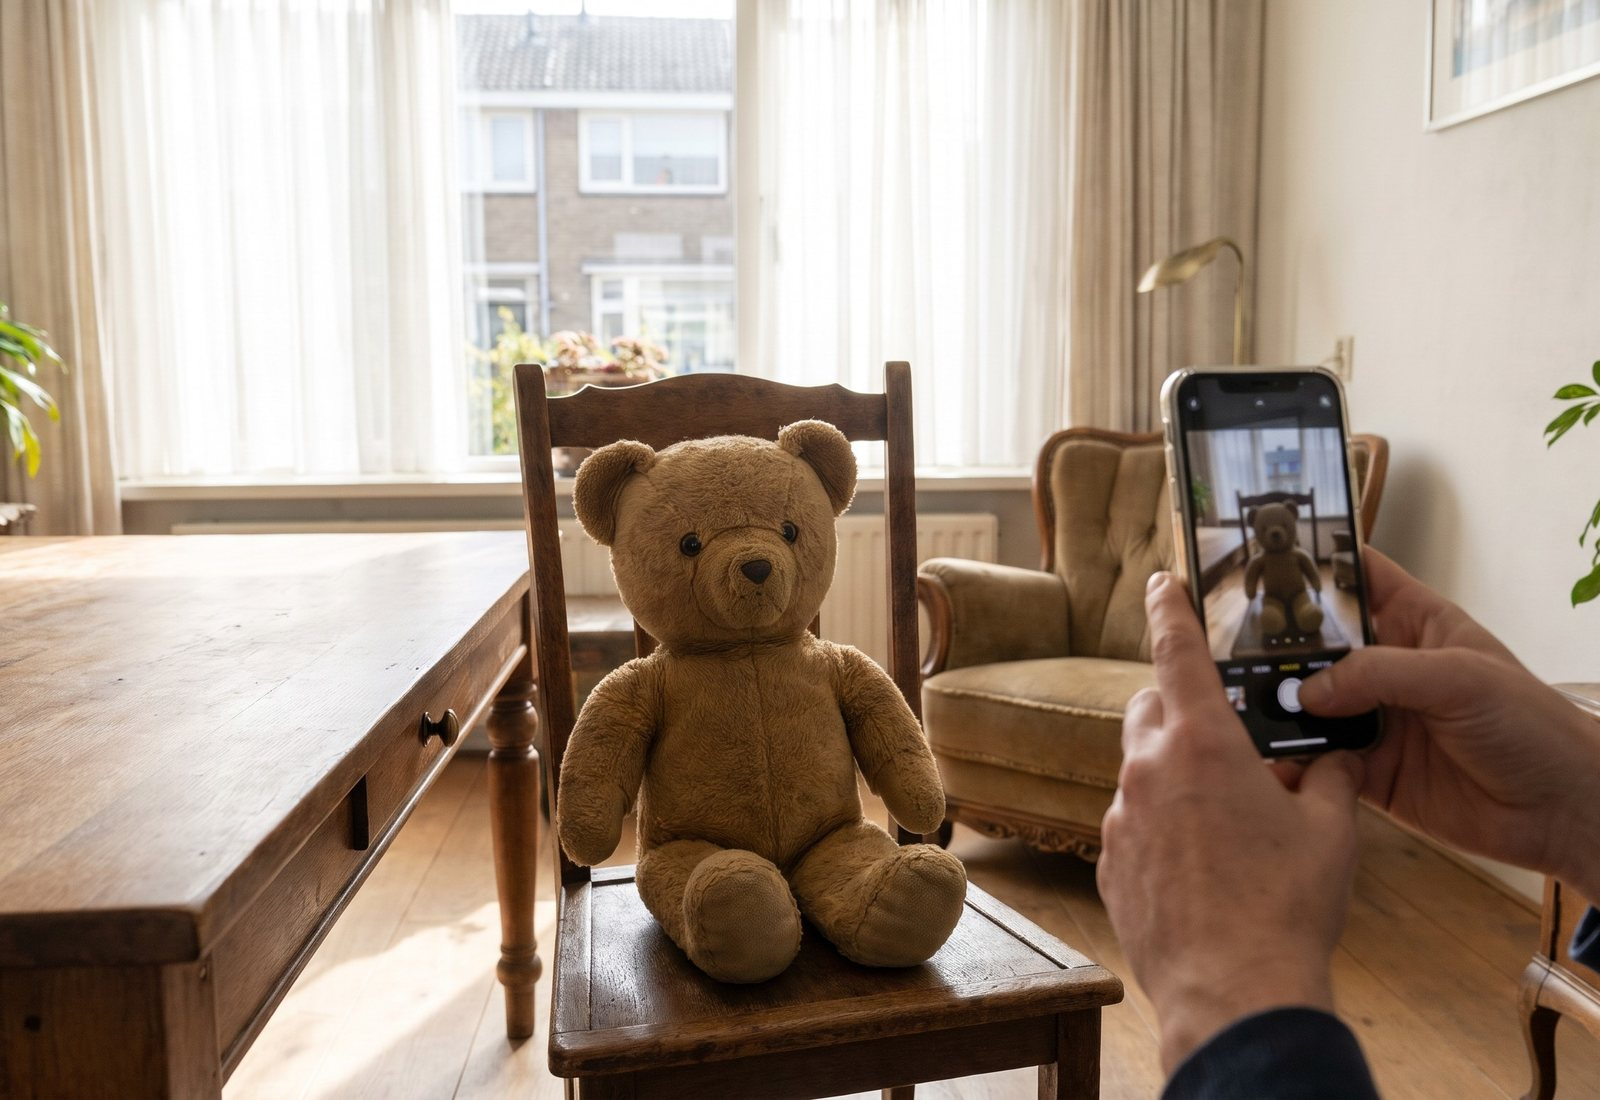
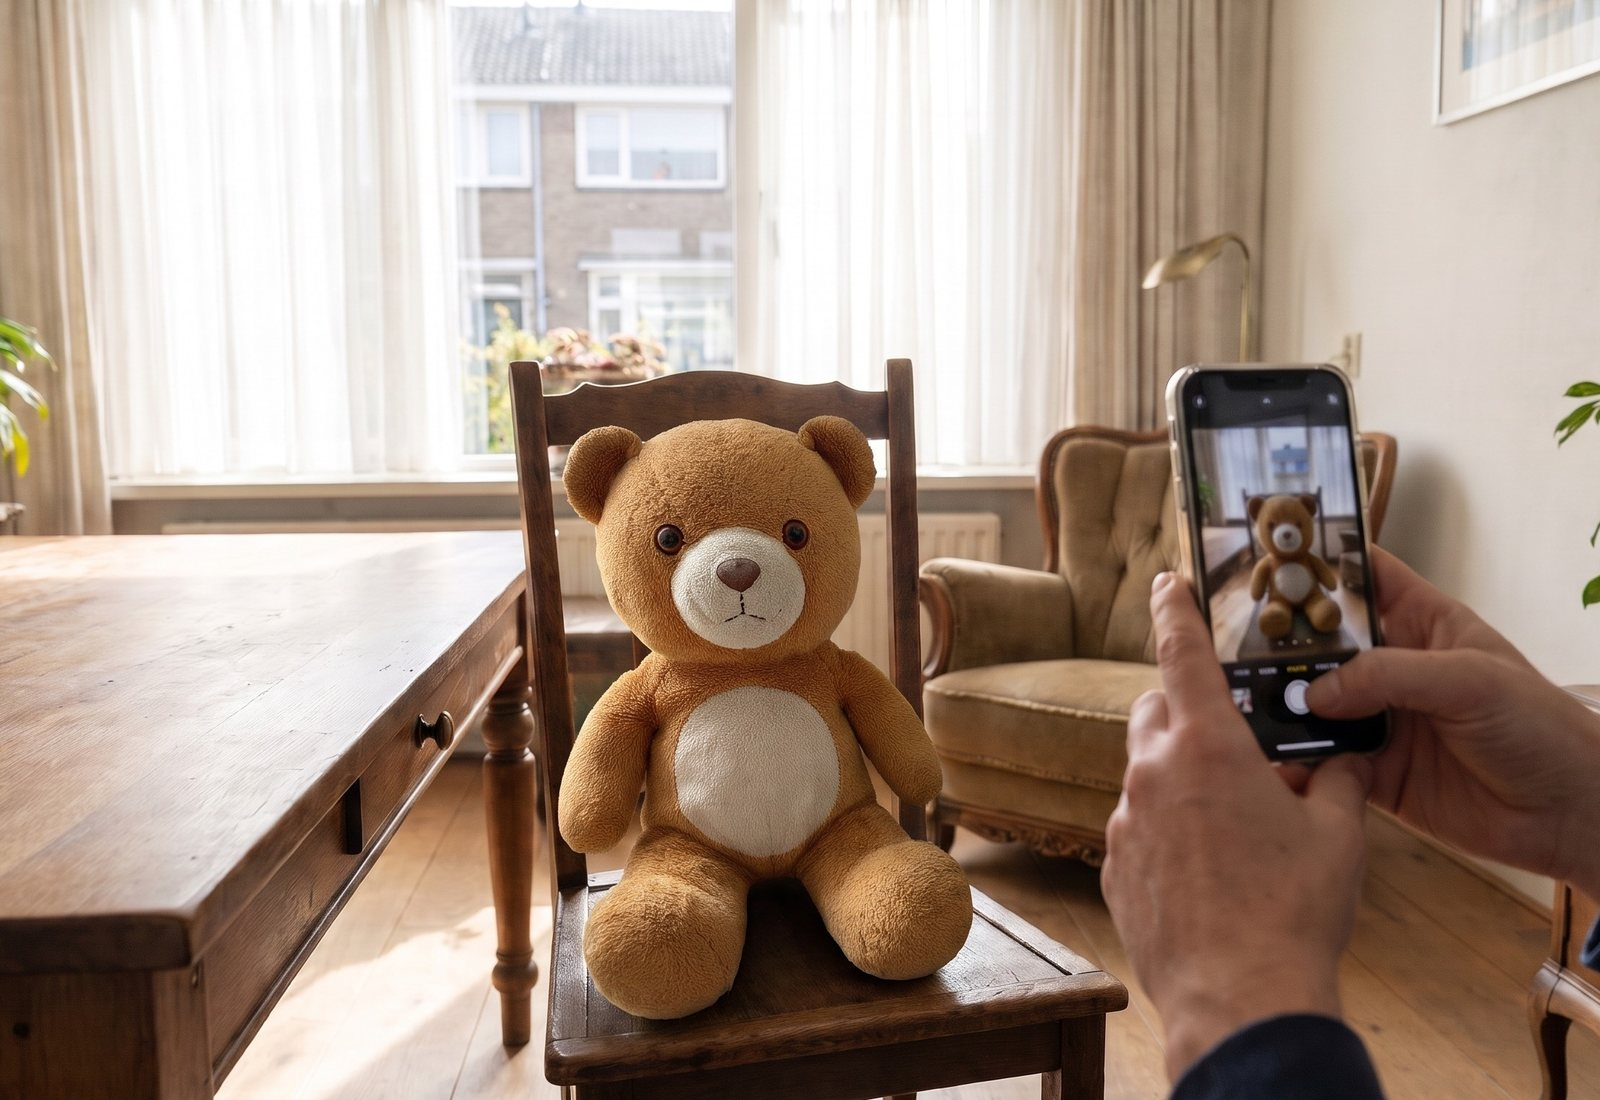
Site: punten van Amanda (één knuffel in de stappen, prijzen, cadeaubon, landen) (#8)
- Zo werkt het: alle drie de stappen tonen nu dezelfde knuffel (Brom de
  beer): foto, voorproefje op de tablet, boek op de mat
- Wat kost het: tekst in de blokken gecentreerd; 'Gedrukt in Europa' en
  'Gewone bezorging inbegrepen'; regel over sneller bezorgen tegen meerprijs;
  etiket 'Het cadeau' wordt 'Onze tip'
- Cadeaubon: duidelijker dat er twee manieren zijn (direct in je mail of als
  handgeschreven kaart) en bij elk bedrag wat je ervoor koopt
- FAQ: levering alleen binnen de EU (Verenigd Koninkrijk en Zwitserland eruit)

diff --git a/src/components/Pricing.tsx b/src/components/Pricing.tsx
@@ -7,7 +7,7 @@ interface PricingProps {
   headingLevel?: 'h1' | 'h2';
 }
 
-/** "Wat kost het?": softcover, hardcover (het cadeau) en alleen digitaal. */
+/** "Wat kost het?": softcover, hardcover (onze tip) en alleen digitaal. */
 export default function Pricing({ campaign = 'home', headingLevel = 'h2' }: PricingProps) {
   const Kop = headingLevel;
 
@@ -24,12 +24,13 @@ export default function Pricing({ campaign = 'home', headingLevel = 'h2' }: Pric
       <div className="mx-auto grid w-full max-w-[560px] grid-cols-1 items-stretch gap-7 lg:max-w-none lg:grid-cols-3">
         {/* Softcover */}
         <article className="order-2 flex flex-col gap-[18px] overflow-hidden rounded-[28px] border-4 border-inkt bg-white pb-8 lg:order-none">
-          <h3 className="m-0 bg-blauw px-6 py-3.5 sm:px-8 font-display text-2xl font-extrabold text-creme">Softcover</h3>
-          <div className="flex flex-grow flex-col gap-[18px] px-6 sm:px-8">
+          <h3 className="m-0 bg-blauw px-6 py-3.5 text-center sm:px-8 font-display text-2xl font-extrabold text-creme">Softcover</h3>
+          <div className="flex flex-grow flex-col gap-[18px] px-6 text-center sm:px-8">
             <p className="m-0 font-display text-[56px] font-extrabold leading-none">€29,95</p>
             <ul className="m-0 flex list-none flex-col gap-2 p-0 text-[17px] text-grijs">
               <li>Zachte kaft, 34 pagina&apos;s</li>
-              <li>Gedrukt en thuisbezorgd</li>
+              <li>Gedrukt in Europa</li>
+              <li>Gewone bezorging inbegrepen</li>
               <li>De PDF krijg je erbij</li>
             </ul>
             <a
@@ -41,19 +42,20 @@ export default function Pricing({ campaign = 'home', headingLevel = 'h2' }: Pric
           </div>
         </article>
 
-        {/* Hardcover: het cadeau */}
+        {/* Hardcover: onze tip */}
         <article className="order-1 flex flex-col gap-[18px] overflow-hidden rounded-[28px] border-4 border-inkt bg-white pb-8 shadow-[0_24px_50px_rgba(31,42,68,0.18)] lg:order-none lg:scale-[1.04]">
-          <div className="flex items-center justify-between gap-3 bg-koraal px-6 py-3.5 sm:px-8">
+          <div className="flex flex-wrap items-center justify-center gap-3 bg-koraal px-6 py-3.5 sm:px-8">
             <h3 className="m-0 font-display text-2xl font-extrabold text-inkt">Hardcover</h3>
             <span className="rounded-full bg-inkt px-3 py-1.5 font-sans text-[13px] font-extrabold uppercase tracking-[1px] text-creme">
-              Het cadeau
+              Onze tip
             </span>
           </div>
-          <div className="flex flex-grow flex-col gap-[18px] px-6 sm:px-8">
+          <div className="flex flex-grow flex-col gap-[18px] px-6 text-center sm:px-8">
             <p className="m-0 font-display text-[56px] font-extrabold leading-none">€39,95</p>
             <ul className="m-0 flex list-none flex-col gap-2 p-0 text-[17px] text-grijs">
               <li>Harde kaft, stevig papier, 34 pagina&apos;s</li>
-              <li>Gedrukt en thuisbezorgd</li>
+              <li>Gedrukt in Europa</li>
+              <li>Gewone bezorging inbegrepen</li>
               <li>De PDF krijg je erbij</li>
               <li>Extra exemplaar €19,95</li>
             </ul>
@@ -68,8 +70,8 @@ export default function Pricing({ campaign = 'home', headingLevel = 'h2' }: Pric
 
         {/* Alleen digitaal */}
         <article className="order-3 flex flex-col gap-[18px] overflow-hidden rounded-[28px] border-4 border-inkt bg-white pb-8 lg:order-none">
-          <h3 className="m-0 bg-geel px-6 py-3.5 sm:px-8 font-display text-2xl font-extrabold text-inkt">Alleen digitaal</h3>
-          <div className="flex flex-grow flex-col gap-[18px] px-6 sm:px-8">
+          <h3 className="m-0 bg-geel px-6 py-3.5 text-center sm:px-8 font-display text-2xl font-extrabold text-inkt">Alleen digitaal</h3>
+          <div className="flex flex-grow flex-col gap-[18px] px-6 text-center sm:px-8">
             <p className="m-0 font-display text-[56px] font-extrabold leading-none">€10</p>
             <ul className="m-0 flex list-none flex-col gap-2 p-0 text-[17px] text-grijs">
               <li>Het hele boek als PDF, 34 pagina&apos;s</li>
@@ -85,6 +87,10 @@ export default function Pricing({ campaign = 'home', headingLevel = 'h2' }: Pric
           </div>
         </article>
       </div>
+
+      <p className="m-0 max-w-[720px] self-center text-center text-[17px] font-bold text-inkt">
+        Sneller in huis? Dat kan tegen een meerprijs. Je kiest het bij het afrekenen.
+      </p>
 
       <p className="m-0 max-w-[720px] self-center text-center text-[15px] text-grijs">
         Elk boek wordt speciaal voor jou gemaakt, met jouw knuffel en namen. Daarom geldt er geen bedenktijd van 14 dagen. Is er iets mis met de druk? Mail ons, dan lossen we het op.

diff --git a/src/app/page.tsx b/src/app/page.tsx
@@ -9,8 +9,9 @@ import { appUrl, LEVERTIJD, CONTACT_EMAIL } from '@/lib/constants';
    de knuffelfoto's zijn met AI gemaakt, dus geen merk-knuffels. */
 const IMG = {
   hero: '/beelden/hero-kerst.jpg', // kind leest Kerst met Dons bij lamplicht
-  stap1: '/beelden/stap1.jpg', // ouder fotografeert een teddybeer op een stoel
-  stap2: '/beelden/stap2.jpg', // kaft van Kerst met Dons op een tablet
+  // Stap 1, 2 en 3 tonen dezelfde knuffel (Brom de beer): foto, voorproefje, boek op de mat
+  stap1: '/beelden/stap1.jpg', // ouder fotografeert Brom de beer op een stoel
+  stap2: '/beelden/stap2.jpg', // kaft van Noor en Brom vieren Kerst op een tablet
   stap3: '/beelden/stap3.jpg', // pakket met Noor en Brom vieren Kerst voor de deur
   inHanden: '/beelden/inhanden.jpg', // open boek op schoot
   waterverf: '/beelden/stijl-waterverf.jpg',
@@ -151,7 +152,7 @@ function ZoWerktHet() {
       rotate: '-rotate-1',
       bol: 'bg-geel text-inkt',
       titel: 'Boek op de mat',
-      tekst: 'Gedrukt als hardcover en thuisbezorgd. De PDF krijg je er meteen bij, om alvast voor te lezen.',
+      tekst: 'Gedrukt in Europa als hardcover en thuisbezorgd. De PDF krijg je er meteen bij, om alvast voor te lezen.',
     },
   ];
 
@@ -292,20 +293,28 @@ function Cadeaubon() {
           <p className="m-0 text-lg md:text-xl">
             Voor opa&apos;s, oma&apos;s, ooms en tantes. De ontvanger maakt zelf een foto van de knuffel en kiest het verhaal. Ook als het te laat is voor een gedrukt boek.
           </p>
+          <p className="m-0 text-lg font-extrabold md:text-xl">Je kiest zelf hoe je hem geeft:</p>
           <div className="grid grid-cols-1 gap-4 sm:grid-cols-2">
             <div className="flex flex-col gap-1 rounded-[18px] border-[3px] border-inkt bg-creme px-5 py-[18px] text-inkt">
-              <span className="font-display text-[22px] font-extrabold leading-[1.1]">Direct in je mail</span>
+              <span className="font-display text-[22px] font-extrabold leading-[1.1]">Ontvang de cadeaubon direct in je mail</span>
               <span className="text-base text-grijs">Als PDF om te printen, ook op 24 december</span>
             </div>
             <div className="flex flex-col gap-1 rounded-[18px] border-[3px] border-inkt bg-geel px-5 py-[18px] text-inkt">
-              <span className="font-display text-[22px] font-extrabold leading-[1.1]">Handgeschreven kaart</span>
+              <span className="font-display text-[22px] font-extrabold leading-[1.1]">Cadeaubon als handgeschreven kaart</span>
               <span className="text-base text-grijs">Met jouw tekst, per post in een envelop</span>
             </div>
           </div>
           <div className="flex flex-wrap items-center gap-3">
-            <span className="rounded-[14px] bg-creme px-[18px] py-2.5 font-extrabold text-inkt">€29,95</span>
-            <span className="rounded-[14px] bg-creme px-[18px] py-2.5 font-extrabold text-inkt">€39,95</span>
-            <span className="rounded-[14px] bg-creme px-[18px] py-2.5 font-extrabold text-inkt">€50</span>
+            {[
+              ['€29,95', 'Softcover'],
+              ['€39,95', 'Hardcover'],
+              ['€50', 'Naar keuze'],
+            ].map(([bedrag, wat]) => (
+              <span key={bedrag} className="flex flex-col items-center rounded-[14px] bg-creme px-[18px] py-2 text-inkt">
+                <span className="font-extrabold">{bedrag}</span>
+                <span className="text-sm text-grijs">{wat}</span>
+              </span>
+            ))}
             <span className="inline-flex items-center gap-2 rounded-[20px] border-[3px] border-dashed border-geel px-6 py-3 text-lg font-extrabold text-geel">
               <svg aria-hidden="true" width="20" height="20" viewBox="0 0 24 24" fill="none" stroke="currentColor" strokeWidth="2.5" strokeLinecap="round" strokeLinejoin="round">
                 <circle cx="12" cy="12" r="9" />

diff --git a/src/app/faq/page.tsx b/src/app/faq/page.tsx
@@ -14,7 +14,7 @@ const faqItems = [
       },
       {
         q: 'Naar welke landen leveren jullie?',
-        a: 'We leveren in Nederland, België, Duitsland, Frankrijk, Oostenrijk, Luxemburg, het Verenigd Koninkrijk en Zwitserland. De verzendkosten zijn overal hetzelfde: gewone post zit in de prijs. Buiten Nederland kan het een paar dagen langer duren.',
+        a: 'We leveren in Nederland, België, Duitsland, Frankrijk, Oostenrijk en Luxemburg. De verzendkosten zijn overal hetzelfde: gewone post zit in de prijs. Buiten Nederland kan het een paar dagen langer duren.',
       },
       {
         q: 'Kan ik meerdere exemplaren bestellen?',
